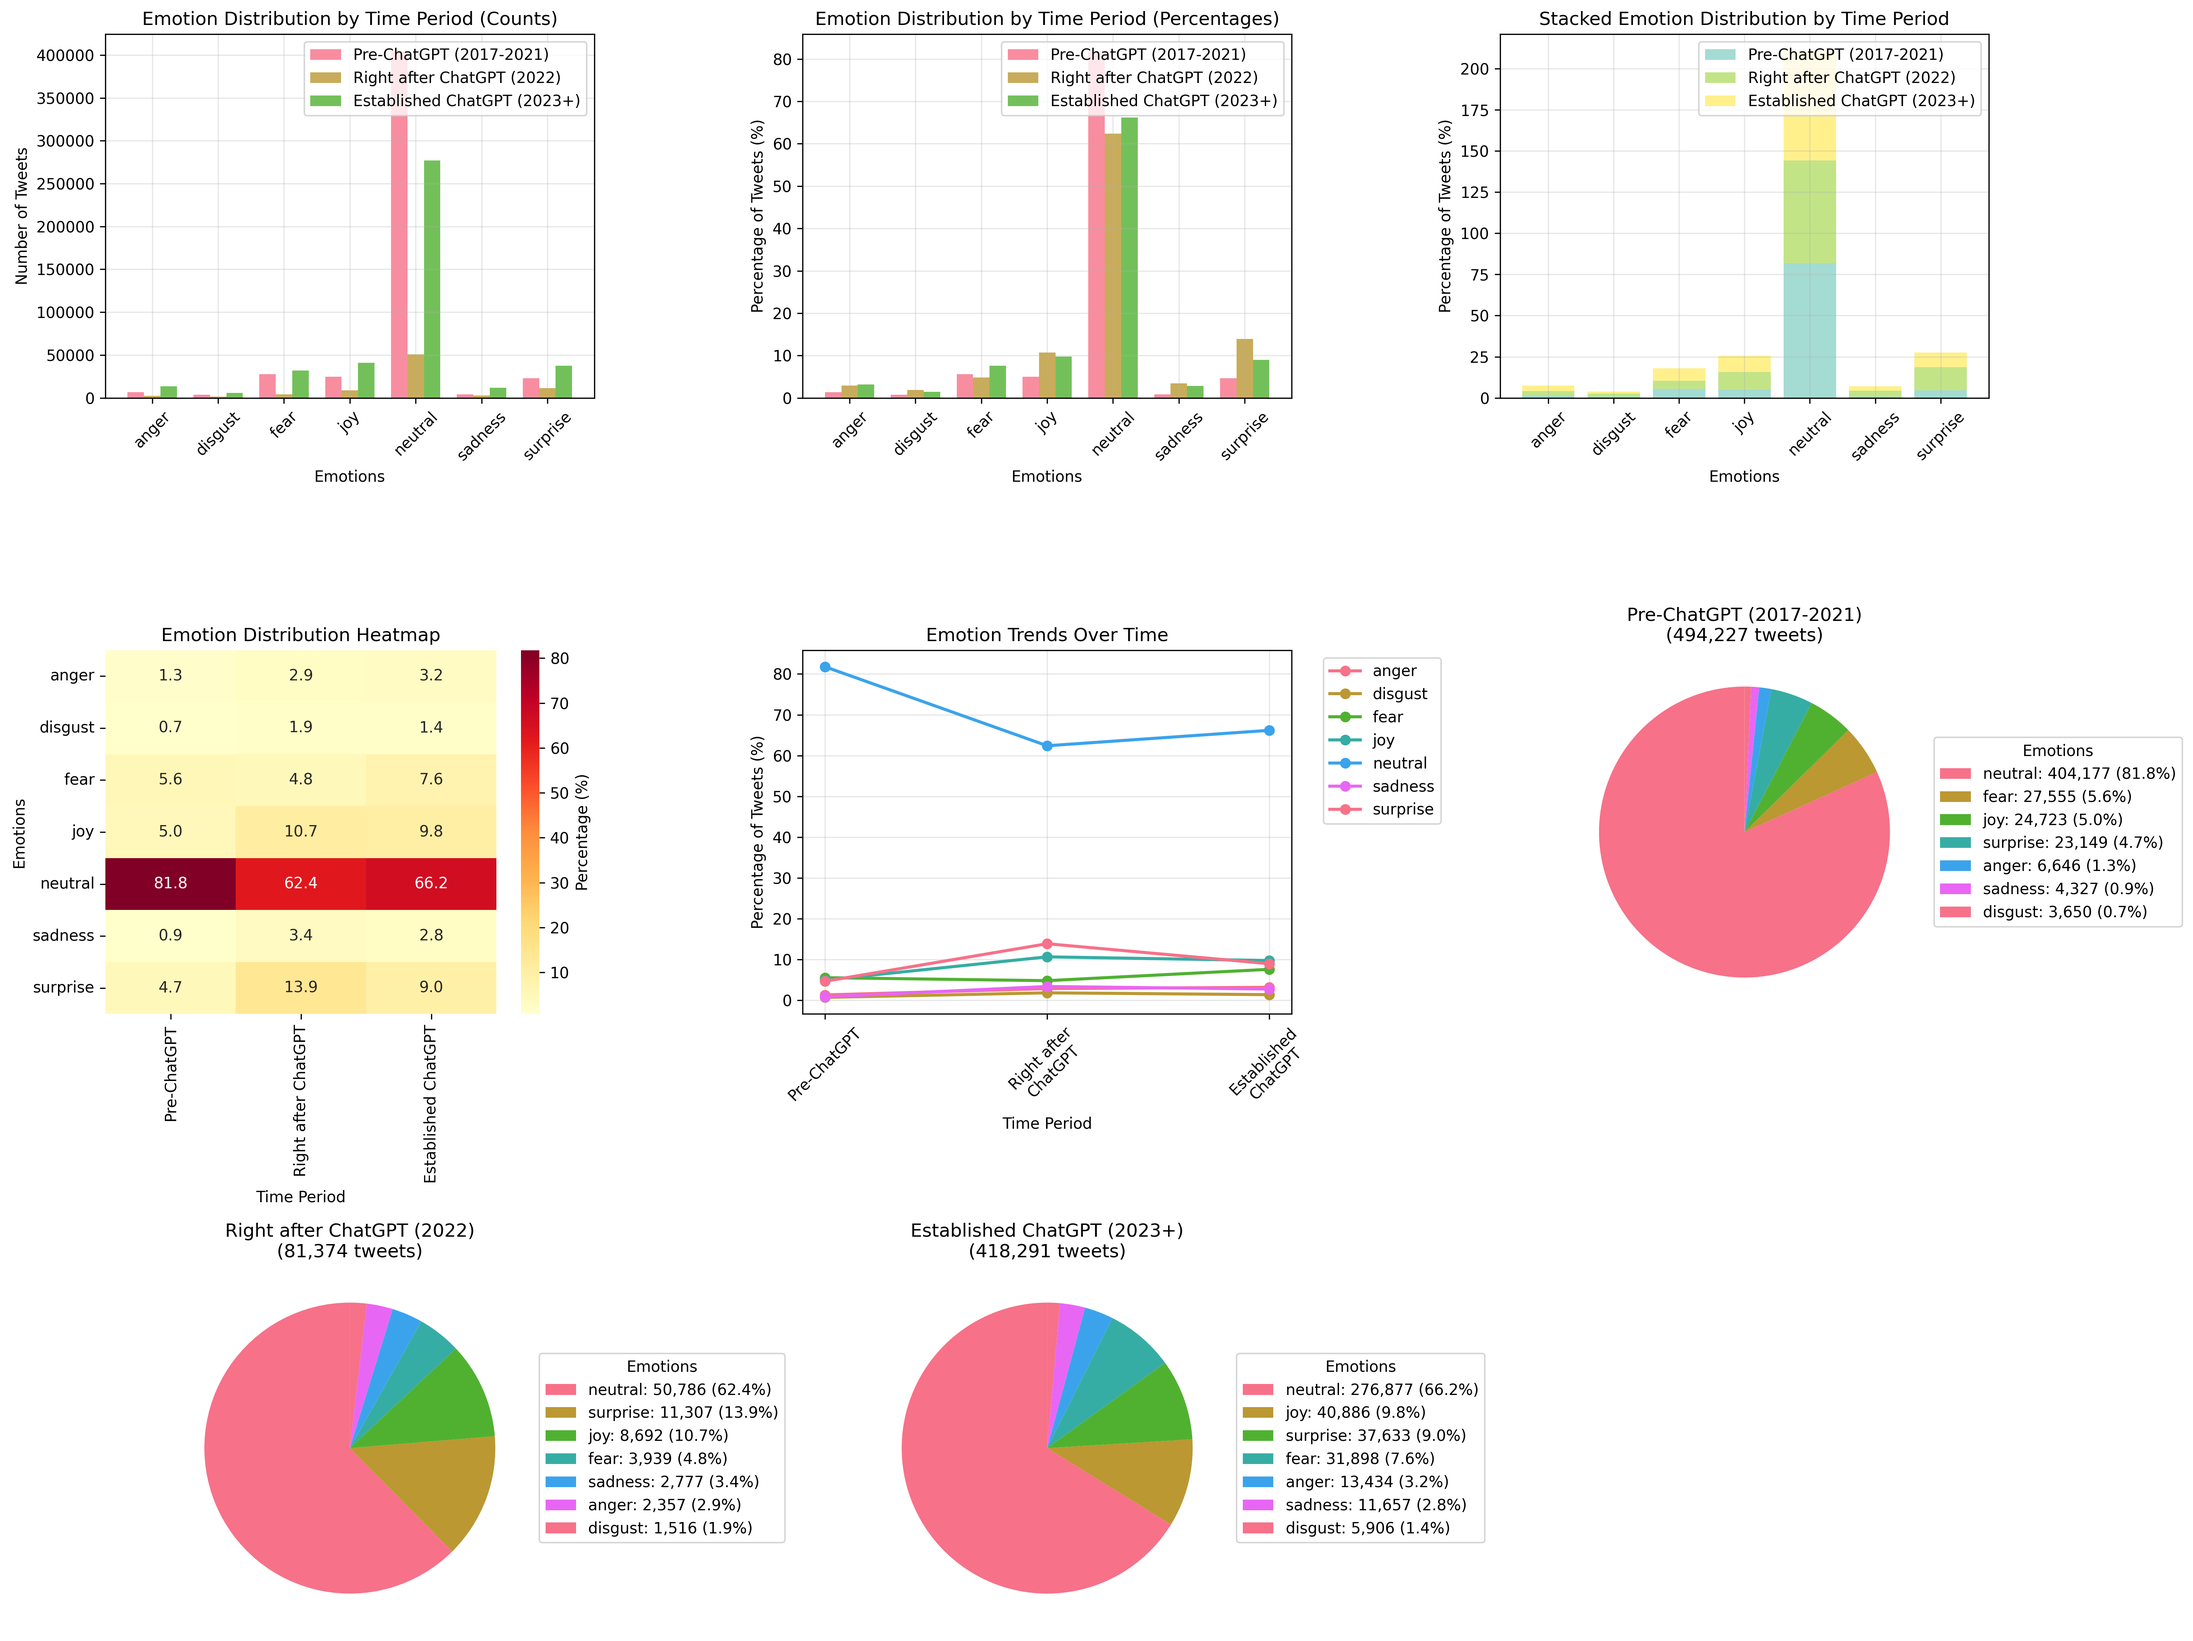
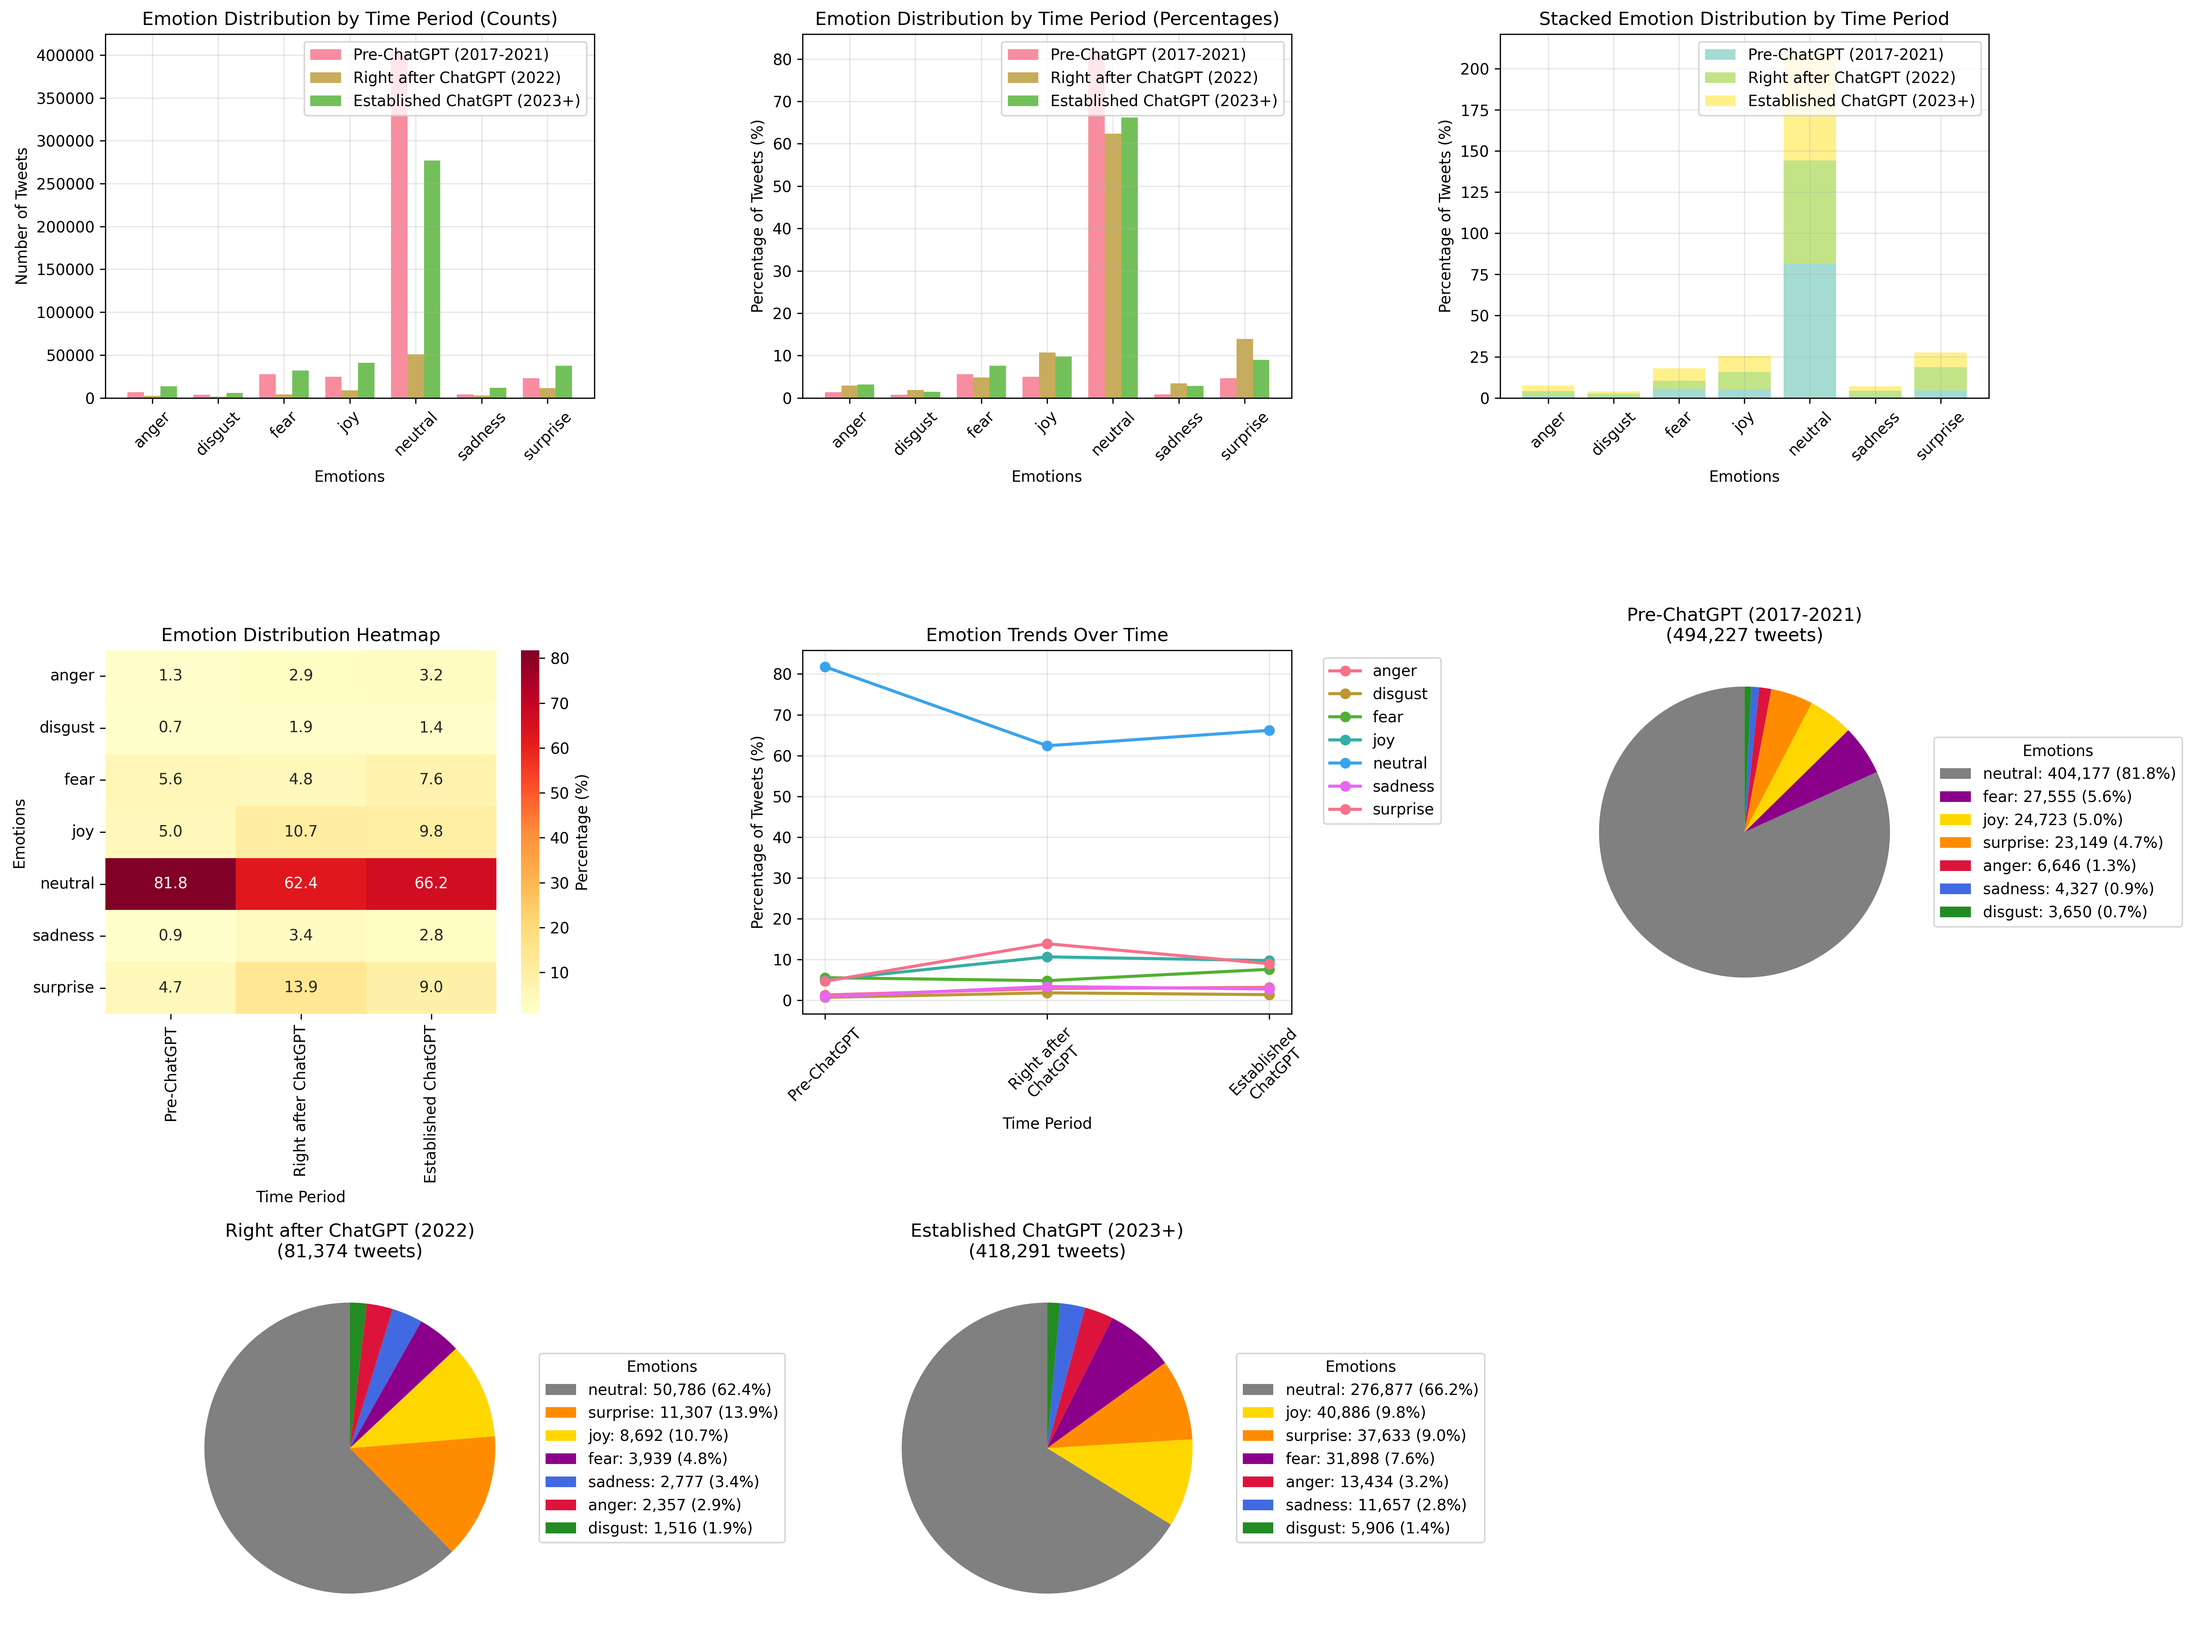
New info

Changed region(s): [[0.7162, 0.4043, 0.9031, 0.6221], [0.4048, 0.7776, 0.5917, 0.9953], [0.0934, 0.7776, 0.2803, 0.9953]]

diff --git a/Emotional_Analysis/emotion_timeline_analysis.py b/Emotional_Analysis/emotion_timeline_analysis.py
@@ -97,6 +97,17 @@ def create_visualizations(all_data, results):
     plt.style.use('default')
     sns.set_palette("husl")
     
+    # Define high-contrast colors for emotions
+    emotion_colors = {
+        'neutral': '#808080',    # Gray
+        'joy': '#FFD700',        # Gold/Yellow
+        'anger': '#DC143C',      # Crimson Red
+        'sadness': '#4169E1',    # Royal Blue
+        'fear': '#8B008B',       # Dark Magenta
+        'surprise': '#FF8C00',   # Dark Orange
+        'disgust': '#228B22'     # Forest Green
+    }
+    
     # Create a figure with multiple subplots
     fig = plt.figure(figsize=(20, 15))
     
@@ -194,8 +205,12 @@ def create_visualizations(all_data, results):
         period_data = all_data[all_data['period'] == period]
         emotion_counts = period_data['emotion_label'].value_counts()
         
+        # Get colors for emotions
+        colors = [emotion_colors.get(emotion, '#999999') for emotion in emotion_counts.index]
+        
         # Create pie chart without percentage labels on slices
         wedges, texts = plt.pie(emotion_counts.values, 
+                               colors=colors,
                                autopct=None, 
                                startangle=90)
         
@@ -211,10 +226,10 @@ def create_visualizations(all_data, results):
         plt.title(f'{period}\n({len(period_data):,} tweets)')
     
     plt.tight_layout()
-    plt.savefig('emotion_timeline_analysis.png', dpi=300, bbox_inches='tight')
+    plt.savefig('Emotional_Analysis/emotion_timeline_analysis.png', dpi=300, bbox_inches='tight')
     plt.show()
     
-    print("Visualizations saved as 'emotion_timeline_analysis.png'")
+    print("Visualizations saved as 'Emotional_Analysis/emotion_timeline_analysis.png'")
 
 def calculate_statistical_significance(results):
     """Calculate statistical significance of emotion differences"""
@@ -298,8 +313,13 @@ def identify_key_changes(results):
     
     return changes
 
-def generate_report(results, changes, chi2, p_value):
+def generate_report(results, changes, chi2, p_value, all_data):
     """Generate a comprehensive analysis report"""
+    
+    # Calculate overall emotion distribution
+    total_tweets = sum(results[period]['total'] for period in results)
+    overall_emotion_counts = all_data['emotion_label'].value_counts()
+    overall_emotion_pcts = (overall_emotion_counts / len(all_data) * 100).round(1)
     
     report = f"""
 EMOTION TIMELINE ANALYSIS REPORT
@@ -313,8 +333,18 @@ This analysis compares emotional sentiment in tweets about AI/artificial intelli
 2. Right after ChatGPT Launch (2022): {results['Right after ChatGPT (2022)']['total']:,} tweets  
 3. Established ChatGPT Era (2023+): {results['Established ChatGPT (2023+)']['total']:,} tweets
 
-Total dataset: {sum(results[period]['total'] for period in results):,} tweets
+Total dataset: {total_tweets:,} tweets
 
+OVERALL EMOTION DISTRIBUTION (ALL PERIODS COMBINED)
+---------------------------------------------------
+"""
+    
+    for emotion in sorted(overall_emotion_pcts.index):
+        count = overall_emotion_counts[emotion]
+        pct = overall_emotion_pcts[emotion]
+        report += f"   {emotion}: {count:,} tweets ({pct}%)\n"
+    
+    report += f"""
 KEY FINDINGS
 ------------
 
@@ -363,10 +393,10 @@ Generated on: {datetime.now().strftime('%Y-%m-%d %H:%M:%S')}
 """
     
     # Save report
-    with open('emotion_timeline_analysis_report.txt', 'w') as f:
+    with open('Emotional_Analysis/emotion_timeline_analysis_report.txt', 'w') as f:
         f.write(report)
     
-    print("\nReport saved as 'emotion_timeline_analysis_report.txt'")
+    print("\nReport saved as 'Emotional_Analysis/emotion_timeline_analysis_report.txt'")
     return report
 
 def main():
@@ -400,7 +430,7 @@ def main():
     changes = identify_key_changes(results)
     
     # Generate comprehensive report
-    report = generate_report(results, changes, chi2, p_value)
+    report = generate_report(results, changes, chi2, p_value, all_data)
     
     print("\n" + "=" * 50)
     print("ANALYSIS COMPLETE")

diff --git a/Emotional_Analysis_iter2/emotion_timeline_analysis.py b/Emotional_Analysis_iter2/emotion_timeline_analysis.py
@@ -102,6 +102,17 @@ def create_visualizations(all_data, results):
     plt.style.use('default')
     sns.set_palette("husl")
     
+    # Define high-contrast colors for emotions
+    emotion_colors = {
+        'neutral': '#808080',    # Gray
+        'joy': '#FFD700',        # Gold/Yellow
+        'anger': '#DC143C',      # Crimson Red
+        'sadness': '#4169E1',    # Royal Blue
+        'fear': '#8B008B',       # Dark Magenta
+        'surprise': '#FF8C00',   # Dark Orange
+        'disgust': '#228B22'     # Forest Green
+    }
+    
     # Create a figure with multiple subplots
     fig = plt.figure(figsize=(20, 15))
     
@@ -199,8 +210,12 @@ def create_visualizations(all_data, results):
         period_data = all_data[all_data['period'] == period]
         emotion_counts = period_data['emotion_label'].value_counts()
         
+        # Get colors for emotions
+        colors = [emotion_colors.get(emotion, '#999999') for emotion in emotion_counts.index]
+        
         # Create pie chart without percentage labels on slices
         wedges, texts = plt.pie(emotion_counts.values, 
+                               colors=colors,
                                autopct=None, 
                                startangle=90)
         
@@ -302,8 +317,13 @@ def identify_key_changes(results):
     
     return changes
 
-def generate_report(results, changes, chi2, p_value):
+def generate_report(results, changes, chi2, p_value, all_data):
     """Generate a comprehensive analysis report"""
+    
+    # Calculate overall emotion distribution
+    total_tweets = sum(results[period]['total'] for period in results)
+    overall_emotion_counts = all_data['emotion_label'].value_counts()
+    overall_emotion_pcts = (overall_emotion_counts / len(all_data) * 100).round(1)
     
     report = f"""
 EMOTION TIMELINE ANALYSIS REPORT (ITERATION 2)
@@ -317,8 +337,18 @@ This analysis compares emotional sentiment in tweets about AI/artificial intelli
 2. Right after ChatGPT Launch (2022): {results['Right after ChatGPT (2022)']['total']:,} tweets (from postlaunch.labeled.csv)
 3. Established ChatGPT Era (2023+): {results['Established ChatGPT (2023+)']['total']:,} tweets (from postlaunch.labeled.csv)
 
-Total dataset: {sum(results[period]['total'] for period in results):,} tweets
+Total dataset: {total_tweets:,} tweets
 
+OVERALL EMOTION DISTRIBUTION (ALL PERIODS COMBINED)
+---------------------------------------------------
+"""
+    
+    for emotion in sorted(overall_emotion_pcts.index):
+        count = overall_emotion_counts[emotion]
+        pct = overall_emotion_pcts[emotion]
+        report += f"   {emotion}: {count:,} tweets ({pct}%)\n"
+    
+    report += f"""
 KEY FINDINGS
 ------------
 
@@ -407,7 +437,7 @@ def main():
     changes = identify_key_changes(results)
     
     # Generate comprehensive report
-    report = generate_report(results, changes, chi2, p_value)
+    report = generate_report(results, changes, chi2, p_value, all_data)
     
     print("\n" + "=" * 50)
     print("ANALYSIS COMPLETE")
